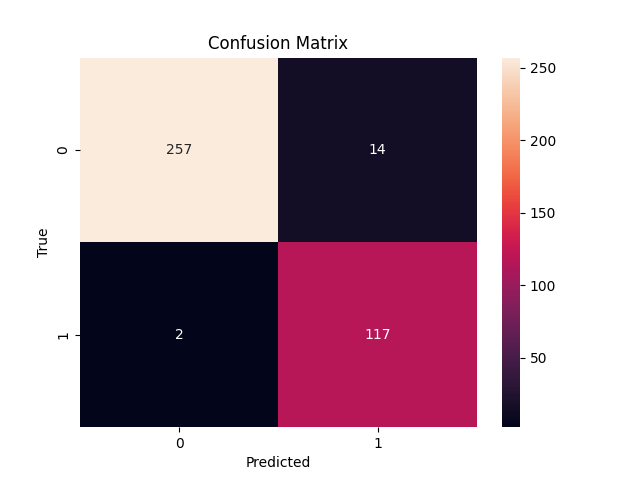
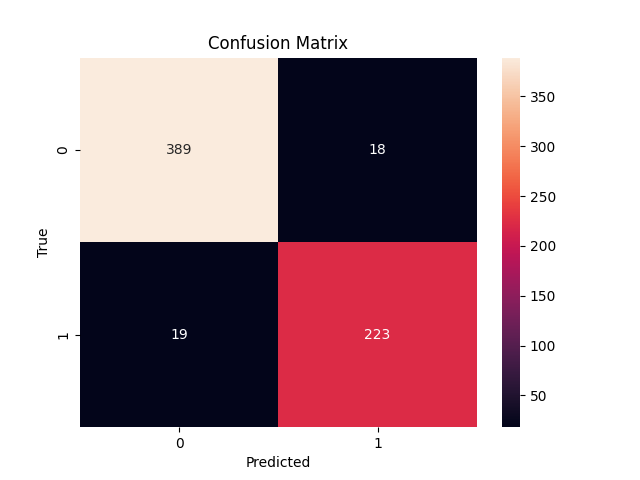
att

diff --git a/SVM.py b/SVM.py
@@ -1,5 +1,6 @@
 import os
 import wfdb
+import openpyxl
 import numpy as np
 from scipy.signal import welch
 import matplotlib.pyplot as plt
@@ -13,7 +14,8 @@ import seaborn as sns
 from sklearn.metrics import accuracy_score, precision_score, recall_score, f1_score
 
 
-def carrega_dados_mitbih(val):
+######################### Carregamento dos Dados #########################
+def carrega_dados_mitbih(ini, fim):
     """
     Carrega os dados do banco de dados MIT-BIH e extrai segmentos de sinais.
 
@@ -24,21 +26,14 @@ def carrega_dados_mitbih(val):
 
     x1 = []
     y1 = []
-
-    # Caminho para a pasta onde os arquivos do MIT-BIH estão localizados
-    pasta = r'C:\Users\cydyq\Documents\Python\TCC\mitdb'
-
-    if val == 1:
-        records = ['100']
-    else:
-        records = [f[:-4] for f in os.listdir(pasta) if f.endswith('.dat')]
-
-    for index, record in enumerate(records):
-        print(f'Modelo atual[{index + 1}]: Record {record} de {len(records) - index} arquivos')
+    casos = None
+    for index, record in enumerate(range(100, fim+1)):
+        casos = index  + 1
+        print(f"Processando registro {casos}: {record}")
 
         # Carrega o sinal e as anotações do registro
-        signals, fields = wfdb.rdsamp(record, pn_dir='mitdb/1.0.0')
-        annotations = wfdb.rdann(record, 'atr', pn_dir='mitdb/1.0.0')
+        signals, fields = wfdb.rdsamp(str(record), pn_dir='mitdb/1.0.0')
+        annotations = wfdb.rdann(str(record), 'atr', pn_dir='mitdb/1.0.0')
 
         # Extrai segmentos do sinal e as respectivas classes
         for i in range(0, len(signals) - 1000, 1000):
@@ -51,9 +46,16 @@ def carrega_dados_mitbih(val):
                 x1.append(segment)
                 y1.append(beat_type)
 
+    if casos:
+        print(f'Exames analisados: {casos}')
+
     return np.array(x1), np.array(y1)
+"""
+Carregamento dos Dados: Lê os dados de ECG do banco de dados MIT-BIH.
+"""
+X, y = carrega_dados_mitbih(100, 104)
 
-
+######################### Pré-processamento dos Dados #########################
 def extract_features(signals):
     """
     Extrai características do sinal de ECG.
@@ -82,15 +84,6 @@ def extract_features(signals):
 
     return np.array(features)
 
-
-######################### Carregamento dos Dados #########################
-"""
-Carregamento dos Dados: Lê os dados de ECG do banco de dados MIT-BIH.
-"""
-val1 = 100
-X, y = carrega_dados_mitbih(val1)
-
-######################### Pré-processamento dos Dados #########################
 """
 Extração de Características: Calcula características relevantes dos sinais de ECG, 
 como estatísticas e características de frequência.
@@ -104,7 +97,7 @@ X_features = np.array(X_features)
 Seleção de Características: Seleciona as características mais importantes para a classificação, 
 utilizando o método SelectKBest.
 """
-selector = SelectKBest(f_classif, k=10)
+selector = SelectKBest(f_classif, k='all')
 X_new = selector.fit_transform(X_features, y)
 
 ######################### Treinamento do Modelo #########################
@@ -117,7 +110,7 @@ X_train, X_test, y_train, y_test = train_test_split(X_new, y, test_size=0.2, ran
 Treinamento: Treina um modelo de Support Vector Machine (SVM) para classificar 
 os sinais de ECG como normais ou anormais com base nas características selecionadas.
 """
-model = SVC(kernel='rbf', C=1.0, gamma='scale')
+model = SVC(kernel='rbf', C=1.0, gamma='scale', probability=True)
 model.fit(X_train, y_train)
 
 ######################### Avaliação do Modelo #########################
@@ -130,16 +123,15 @@ y_pred = model.predict(X_test)
 Métricas de Desempenho: Calcula diversas métricas, como acurácia, precisão, recall e
 F1-score, para avaliar a qualidade das previsões.
 """
-accuracy = accuracy_score(y_test, y_pred)
-precision = precision_score(y_test, y_pred)
-recall = recall_score(y_test, y_pred)
-f1 = f1_score(y_test, y_pred)
+acuracia = accuracy_score(y_test, y_pred) if accuracy_score(y_test, y_pred) == '0' else '1'
+precisao = precision_score(y_test, y_pred) if precision_score(y_test, y_pred) != '0' else '1'
+recall = recall_score(y_test, y_pred) if recall_score(y_test, y_pred) != '0' else '1'
+f1 = f1_score(y_test, y_pred) if f1_score(y_test, y_pred) != '0' else '1'
+print(f'Acurácia: {acuracia} \nPrecisao: {precisao} \nRecall: {recall} \nF1: {f1}\n')
 
 # Criando um DataFrame com as métricas
-metrics = pd.DataFrame({'Metric': ['Accuracy', 'Precision', 'Recall', 'F1-Score'],
-                        'Value': [accuracy, precision, recall, f1]})
-
-print(metrics)
+metricas = pd.DataFrame({'Metrica': ['Acuracia', 'Precisao', 'Recall', 'F1-Score'],
+                         'Valor': [acuracia, precisao, recall, f1]})
 
 """
 Matriz de Confusão: Visualiza a distribuição das previsões corretas e incorretas para cada classe.
@@ -148,7 +140,7 @@ sns.heatmap(confusion_matrix(y_test, y_pred), annot=True, fmt='d')
 plt.xlabel('Predicted')
 plt.ylabel('True')
 plt.title('Confusion Matrix')
-plt.show()
+plt.savefig('matriz_confusao.png')
 
 """
 Curva ROC: Avalia o poder de discriminação do modelo, mostrando a 
@@ -166,7 +158,7 @@ plt.xlabel('False Positive Rate')
 plt.ylabel('True Positive Rate')
 plt.title('Receiver operating characteristic')
 plt.legend(loc="lower right")
-plt.show()
+plt.savefig('curva_roc.png')
 
 """
 Importância das Features: Identifica quais características contribuem mais para a classificação.
@@ -180,7 +172,7 @@ plt.title("Feature Importance")
 plt.bar(range(X_new.shape[1]), importances[indices], color="r", align="center")
 plt.xticks(range(X_new.shape[1]), indices)
 plt.xlim([-1, X_new.shape[1]])
-plt.show()
+plt.savefig('importancia_features.png')
 
 """
 Relatório de Classificação: Gera um relatório detalhado com todas as
@@ -190,10 +182,14 @@ métricas de desempenho, incluindo suporte, confiança e macro/micro médias.
 report_str = classification_report(y_test, y_pred, output_dict=True)
 
 # Convertendo o dicionário para DataFrame
-df = pd.DataFrame(report_str).transpose()
+classificacao = pd.DataFrame(report_str).transpose()
 
 # Convertendo os valores para porcentagem e formatando
-df = df.applymap(lambda x: '{:.2f}%'.format(x*100))
+classificacao = classificacao.map(lambda x: '{:.2f}%'.format(x*100))
 
-# Salvando em um arquivo Excel
-df.to_excel('relatorio_classificacao.xlsx', index=True)
+# Salvando os resultados em um único arquivo Excel
+with pd.ExcelWriter('relatorio_final.xlsx', engine='openpyxl') as writer:
+    metricas.to_excel(writer, sheet_name='Métricas', index=False)
+    classificacao.to_excel(writer, sheet_name='Relatório de Classificação')
+    
+print('Resultados salvos em relatorio_final.xlsx')

diff --git a/svm_rascunho.py b/svm_rascunho.py
@@ -27,15 +27,13 @@ def carrega_dados_mitbih(ini, fim):
     x1 = []
     y1 = []
     casos = None
-
-    records = ['100', '101', '102']
-    for index, record in enumerate(records):
+    for index, record in enumerate(range(100, fim+1)):
         casos = index  + 1
         print(f"Processando registro {casos}: {record}")
 
         # Carrega o sinal e as anotações do registro
-        signals, fields = wfdb.rdsamp(record, pn_dir='mitdb/1.0.0')
-        annotations = wfdb.rdann(record, 'atr', pn_dir='mitdb/1.0.0')
+        signals, fields = wfdb.rdsamp(str(record), pn_dir='mitdb/1.0.0')
+        annotations = wfdb.rdann(str(record), 'atr', pn_dir='mitdb/1.0.0')
 
         # Extrai segmentos do sinal e as respectivas classes
         for i in range(0, len(signals) - 1000, 1000):
@@ -55,7 +53,7 @@ def carrega_dados_mitbih(ini, fim):
 """
 Carregamento dos Dados: Lê os dados de ECG do banco de dados MIT-BIH.
 """
-X, y = carrega_dados_mitbih(100, 102)
+X, y = carrega_dados_mitbih(100, 104)
 
 ######################### Pré-processamento dos Dados #########################
 def extract_features(signals):
